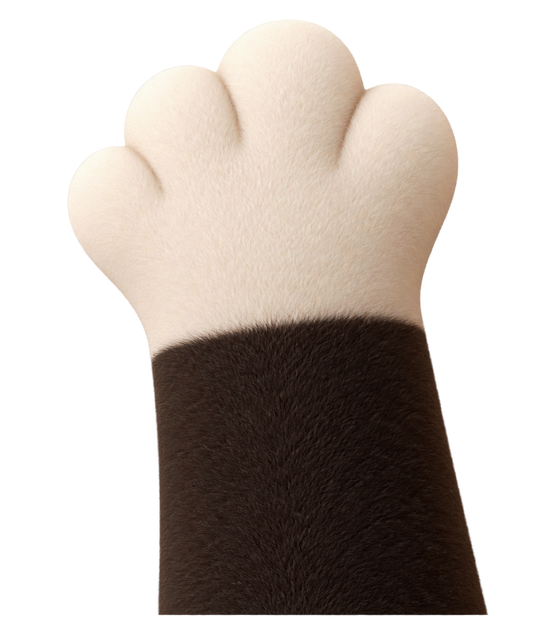
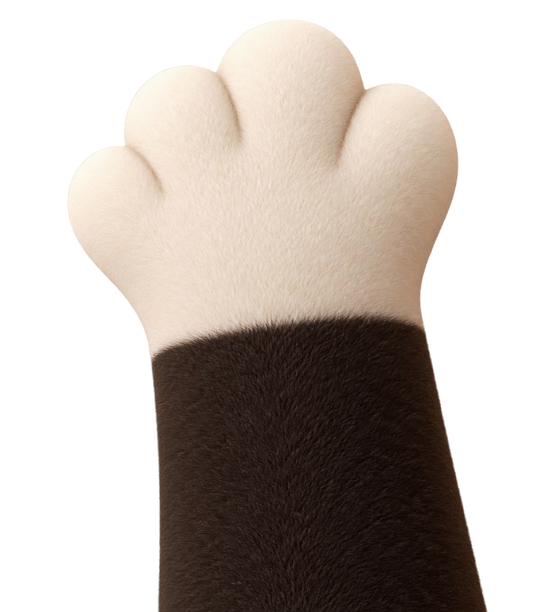
Console 1026: paw nudge on the way up, keychain while shut, arm that never ends on screen, shut-spin-carry exit on Approve

diff --git a/css/console.css b/css/console.css
@@ -10,7 +10,6 @@
 .pc__scrim { position: absolute; inset: 0; background: rgba(10, 8, 9, .62);
   backdrop-filter: blur(8px) saturate(.9); -webkit-backdrop-filter: blur(8px) saturate(.9);
   animation: pcFade .4s ease both; }
-.pc.is-leaving .pc__scrim { animation: pcFadeOut .5s ease .25s both; }
 @keyframes pcFade { from { opacity: 0; } }
 @keyframes pcFadeOut { to { opacity: 0; } }
 
@@ -18,28 +17,109 @@
 .pc__stage { position: absolute; left: 50%; top: 50%; width: 1744px; height: 907px;
   transform: translate(-50%, -50%) scale(var(--s, 1)); transform-origin: 50% 50%; perspective: 2400px; }
 
-/* ── arrival: the shut console comes up on a paw ──────────────── */
+/* ── arrival: the shut console comes up on a paw ──────────────
+   It comes up a little crooked; the paw settles, turns its wrist, and the
+   console swings square before the paw lets go. The keychain swings along. */
 .pc__closed { position: absolute; left: 50%; top: 50%; width: 972px; height: 930px;
   transform: translate(-50%, -50%); pointer-events: none; }
-.pc__lid { position: absolute; inset: 0; width: 100%; height: 100%;
-  filter: drop-shadow(0 40px 60px rgba(0, 0, 0, .55));
-  animation: lidUp 1.1s cubic-bezier(.2, .8, .25, 1) .1s both; }
-.pc__paw { position: absolute; left: 33%; top: 59%; width: 410px;
-  animation: pawUp 2.2s cubic-bezier(.3, .7, .2, 1) .1s both; }
-@keyframes lidUp {
-  0% { transform: translateY(120vh) rotate(-8deg); }
-  70% { transform: translateY(-2%) rotate(1deg); }
-  100% { transform: none; }
+.pc__body { position: absolute; inset: 0; transform-style: preserve-3d; transform-origin: 50% 90%;
+  animation: bodyUp 3.2s cubic-bezier(.3, .7, .2, 1) .1s both; }
+.pc__lid { position: absolute; inset: 0; width: 100%; height: 100%; backface-visibility: hidden;
+  filter: drop-shadow(0 40px 60px rgba(0, 0, 0, .55)); }
+@keyframes bodyUp {
+  0% { transform: translateY(120vh) rotate(-9deg); }
+  26% { transform: translateY(3%) rotate(-6deg); }
+  31% { transform: translateY(-2.5%) rotate(-5.5deg); }
+  38% { transform: translateY(0) rotate(-5.5deg); animation-timing-function: cubic-bezier(.5, 0, .3, 1.6); }
+  43% { transform: translateY(0) rotate(.8deg); }
+  47% { transform: translateY(0) rotate(-.3deg); }
+  52%, 100% { transform: translateY(0) rotate(0deg); }
 }
+/* the paw: its arm runs on below the picture, so its end never shows */
+.pc__paw { position: absolute; left: 33%; top: 59%; width: 410px; transform-origin: 50% 92%;
+  animation: pawUp 3.2s cubic-bezier(.3, .7, .2, 1) .1s both; }
+.pc__paw img { display: block; width: 100%; }
+.paw__arm { position: absolute; left: 0; right: 0; top: calc(100% - 2px); height: 220vh;
+  background: url(../assets/v2/paw-arm.png) center top / 100% auto repeat-y; }
 @keyframes pawUp {
-  0% { transform: translateY(120vh); }
-  48% { transform: translateY(0); }
-  56% { transform: translateY(2.5%) scale(1.02, .97); }
-  64% { transform: translateY(0); }
-  100% { transform: translateY(140vh); }
+  0% { transform: translateY(120vh) rotate(-4deg); }
+  26% { transform: translateY(3%) rotate(-2deg); }
+  31% { transform: translateY(-2.5%) rotate(0deg); }
+  34% { transform: translateY(1%) rotate(0deg) scale(1.04, .95); }
+  38% { transform: translateY(0) rotate(-6deg); animation-timing-function: cubic-bezier(.5, 0, .3, 1.5); }
+  43% { transform: translateY(-2%) rotate(9deg); }
+  47% { transform: translateY(0) rotate(2deg); }
+  51% { transform: translateY(1.5%) rotate(-5deg); }
+  55% { transform: translateY(0) rotate(4deg); }
+  70%, 100% { transform: translateY(150vh) rotate(0deg); }
 }
-.pc.is-open .pc__closed { animation: shut .45s ease both; }
+.pc.is-open:not(.is-leaving) .pc__closed { animation: shut .45s ease both; }
 @keyframes shut { to { opacity: 0; transform: translate(-50%, -50%) scale(.92); } }
+
+/* the underside, seen when it turns round on the way out */
+.pc__under { position: absolute; left: 2%; top: 9%; right: 3%; bottom: 4%; border-radius: 44px;
+  transform: rotateY(180deg) rotate(-6deg); backface-visibility: hidden;
+  display: flex; flex-direction: column; align-items: center; justify-content: center; gap: 48px;
+  background: linear-gradient(200deg, #55565c, #3c3d42 45%, #2a2b2f);
+  box-shadow: inset 0 2px 0 rgba(255, 255, 255, .25), inset 0 -3px 0 rgba(0, 0, 0, .3); }
+.under__vents { display: flex; gap: 18px; }
+.under__vents i { width: 34px; height: 150px; border-radius: 99px; background: #1a1b1e;
+  box-shadow: inset 0 4px 6px rgba(0, 0, 0, .7), 0 2px 0 rgba(255, 255, 255, .08); }
+.under__label { display: flex; flex-direction: column; align-items: center; gap: 10px; font-family: var(--mono);
+  text-transform: uppercase; letter-spacing: .14em; color: rgba(255, 255, 255, .3); font-size: 22px; }
+.under__label b { font-weight: 400; font-size: 40px; letter-spacing: .22em; }
+.under__label em { font-style: normal; }
+
+/* the lug on the shut console's corner, and the keychain hung from it */
+.pc__lug { position: absolute; left: 96.4%; top: 70%; width: 34px; height: 30px; border-radius: 0 14px 14px 0;
+  background: linear-gradient(180deg, #5a5b60, #3a3b40); box-shadow: inset -1px 1px 0 rgba(255, 255, 255, .14), 0 3px 6px rgba(0, 0, 0, .4);
+  transform: rotate(6deg); }
+.pc__eyelet { position: absolute; left: 55%; top: 50%; width: 14px; height: 14px; border-radius: 50%; transform: translate(-50%, -50%);
+  background: radial-gradient(circle, #0b0c0e 0 34%, transparent 36%), conic-gradient(from 200deg, #8e9297, #e9ecef, #9a9ea3, #5e6166, #c9cdd1, #8e9297);
+  box-shadow: 0 0 0 1px rgba(0, 0, 0, .55); }
+.kc { position: absolute; inset: 0; z-index: 4; pointer-events: none; transition: opacity .35s ease; }
+.kc.is-hidden { opacity: 0; }
+.kc__chain { position: absolute; inset: 0; width: 100%; height: 100%; overflow: visible; filter: drop-shadow(0 3px 2px rgba(0, 0, 0, .45)); }
+.kc__link { fill: none; stroke: #d5d9dd; stroke-width: 1.9; }
+.kc__edge { fill: #aeb3b8; stroke: #6e7378; stroke-width: .6; }
+.kc__ring { fill: none; stroke: #e4e7ea; stroke-width: 1.8; }
+.kc__charm { --W: clamp(64px, 5.2vw, 92px); position: absolute; left: 0; top: 0; width: var(--W); padding: 0; border: 0; background: none;
+  margin-left: calc(var(--W) * var(--hx, .5) * -1); margin-top: calc(var(--W) * var(--hy, .1) / var(--ar, 1) * -1);
+  transform-origin: calc(var(--hx, .5) * 100%) calc(var(--hy, .1) * 100%); pointer-events: none; }
+.kc__charm::before { content: ''; position: absolute; left: calc(var(--hx, .5) * 100%); top: calc(var(--hy, .1) * 100% - 3%);
+  width: 11px; height: 11px; margin: -5.5px 0 0 -5.5px; border-radius: 50%; border: 1.8px solid #e4e7ea; box-sizing: border-box; z-index: 1; }
+.kc__img { display: block; width: 100%; filter: drop-shadow(0 8px 10px rgba(0, 0, 0, .45)); }
+
+/* ── Approve: it shuts, turns twice on its upright axis, and the paw takes it away ── */
+.pc.is-open.is-leaving .pc__open, .pc.is-open.is-leaving .half--l { animation: leave .4s ease both; pointer-events: none; }
+@keyframes leave { to { opacity: 0; transform: scale(.94); } }
+.pc.is-leaving .pc__closed { animation: carry 3.5s linear both; }
+@keyframes carry {
+  0%, 10% { opacity: 0; transform: translate(-50%, -50%) scale(.95); }
+  14% { opacity: 1; transform: translate(-50%, -50%) scale(1); }
+  74% { transform: translate(-50%, -50%) scale(1); animation-timing-function: cubic-bezier(.5, 0, .8, .4); }
+  100% { opacity: 1; transform: translate(-50%, calc(-50% + 120vh)) scale(1); }
+}
+.pc.is-leaving .pc__body { animation: spinOut 3.5s linear both; }
+@keyframes spinOut {
+  0%, 16% { transform: rotateY(0deg) scale(1); }
+  20% { transform: translateY(-3%) rotateY(-14deg) scale(1.02); animation-timing-function: cubic-bezier(.45, 0, .25, 1); }
+  56% { transform: rotateY(720deg) scale(.82); animation-timing-function: ease-out; }
+  60% { transform: rotateY(728deg) scale(.82); }
+  64%, 100% { transform: rotateY(720deg) scale(.82); }
+}
+.pc.is-leaving .pc__paw { animation: pawTake 3.5s linear both; }
+@keyframes pawTake {
+  0%, 60% { opacity: 0; transform: translateY(80vh); }
+  61% { opacity: 1; transform: translateY(80vh); animation-timing-function: cubic-bezier(.2, .7, .3, 1); }
+  68% { transform: translateY(-2%); }
+  71% { transform: translateY(2%) scale(1.04, .95); }
+  74%, 100% { opacity: 1; transform: translateY(0); }
+}
+.pc.is-leaving .pc__scrim { animation: pcFadeOut .6s ease 2.8s both; }
+.pc.is-leaving .kc { animation: pcFadeOut .3s ease 3.1s both; }
+.pc.is-open.is-closing .pc__open { animation: leave .4s ease both; pointer-events: none; }
+.pc.is-closing .pc__scrim { animation: pcFadeOut .4s ease both; }
 
 /* ── the open console ─────────────────────────────────────────── */
 .pc__open { position: absolute; inset: 0; opacity: 0; pointer-events: none; transform-style: preserve-3d; }
@@ -47,8 +127,6 @@
 @keyframes openIn { from { opacity: 0; transform: scale(.94); } }
 .pc.is-open .half--l { animation: swing .7s cubic-bezier(.2, .8, .25, 1) .05s both; transform-origin: 100% 50%; }
 @keyframes swing { from { transform: rotateY(-70deg); opacity: .4; } }
-.pc.is-leaving .pc__open { animation: leave .5s cubic-bezier(.5, 0, .75, 0) both; }
-@keyframes leave { to { opacity: 0; transform: translateY(40px) scale(.94); } }
 
 .half { position: absolute; top: 0; width: 864px; height: 907px; border-radius: 40px; background: #1d1d1d;
   box-shadow: inset -8px -8px 8px rgba(0, 0, 0, .32), inset 4px 4px 8px rgba(255, 255, 255, .18),

diff --git a/js/console.js b/js/console.js
@@ -30,6 +30,76 @@ const Console = (() => {
   ];
 
   let host = null, plan = null, timers = [];
+
+  const Keychain = (() => {
+    const TAGS = [['tag-v2-1', .524, .115, .998], ['tag-v2-2', .482, .119, .973], ['tag-v2-3', .488, .118, .996],
+      ['tag-v2-4', .473, .113, .981], ['tag-v2-5', .489, .116, 1.002]];
+    let raf = 0;
+    const start = (root) => {
+      cancelAnimationFrame(raf);
+      const kc = root.querySelector('#kc'), svg = root.querySelector('#kcChain'), charm = root.querySelector('#kcCharm'), eye = root.querySelector('#pcEye');
+      if (!kc || !eye) return;
+      kc.classList.remove('is-hidden');
+      const [f, hx, hy, ar] = TAGS[Math.floor(Math.random() * TAGS.length)];
+      charm.querySelector('img').src = `${A}tags/${f}.png`;
+      charm.style.setProperty('--hx', hx); charm.style.setProperty('--hy', hy); charm.style.setProperty('--ar', ar);
+      const N = 7, W = [0, 1, 1, 1, 1, 1, 9];
+      const P = Array.from({ length: N }, () => ({ x: 0, y: 0, px: 0, py: 0 }));
+      let seg = 9, ready = false, last = performance.now();
+      const anchor = () => {
+        const r = eye.getBoundingClientRect(), k = kc.getBoundingClientRect();
+        return { x: r.left + r.width / 2 - k.left, y: r.top + r.height / 2 - k.top, w: r.width };
+      };
+      const step = (dt) => {
+        const a = anchor();
+        if (!a.w) return;
+        seg = Math.max(6, a.w * .62);
+        if (!ready) { P.forEach((q, i) => { q.x = q.px = a.x; q.y = q.py = a.y + i * seg; }); ready = true; }
+        const g = 2400 * dt * dt;
+        P.forEach((q, i) => {
+          if (i === 0) return;
+          const vx = (q.x - q.px) * .955, vy = (q.y - q.py) * .955;
+          q.px = q.x; q.py = q.y; q.x += vx; q.y += vy + g;
+        });
+        P[0].x = a.x; P[0].y = a.y;
+        for (let it = 0; it < 10; it++) {
+          for (let i = 0; i < N - 1; i++) {
+            const Aa = P[i], B = P[i + 1];
+            const dx = B.x - Aa.x, dy = B.y - Aa.y, d = Math.hypot(dx, dy) || .001, diff = (d - seg) / d;
+            const wa = i === 0 ? 0 : 1 / W[i], wb = 1 / W[i + 1], sum = wa + wb;
+            Aa.x += dx * diff * wa / sum; Aa.y += dy * diff * wa / sum;
+            B.x -= dx * diff * wb / sum; B.y -= dy * diff * wb / sum;
+          }
+        }
+      };
+      const draw = () => {
+        let h = `<circle cx="${P[0].x}" cy="${P[0].y}" r="${seg * .72}" class="kc__ring"/>`;
+        for (let i = 0; i < N - 1; i++) {
+          const Aa = P[i], B = P[i + 1], cx = (Aa.x + B.x) / 2, cy = (Aa.y + B.y) / 2;
+          const ang = Math.atan2(B.y - Aa.y, B.x - Aa.x) * 180 / Math.PI, L = seg * 1.18;
+          h += i % 2
+            ? `<rect x="${-L / 2}" y="-1.3" width="${L}" height="2.6" rx="1.3" transform="translate(${cx} ${cy}) rotate(${ang})" class="kc__edge"/>`
+            : `<ellipse rx="${L / 2}" ry="${seg * .36}" transform="translate(${cx} ${cy}) rotate(${ang})" class="kc__link"/>`;
+        }
+        svg.innerHTML = h;
+        const E = P[N - 1], D = P[N - 2];
+        charm.style.transform = `translate(${E.x}px, ${E.y}px) rotate(${Math.atan2(E.y - D.y, E.x - D.x) * 180 / Math.PI - 90}deg)`;
+      };
+      const tick = (now) => {
+        const dt = Math.min(.033, (now - last) / 1000); last = now;
+        step(dt / 2); step(dt / 2);
+        if (ready) draw();
+        raf = requestAnimationFrame(tick);
+      };
+      raf = requestAnimationFrame(tick);
+    };
+    const stop = (now) => {
+      const kc = host && host.querySelector('#kc');
+      if (kc) kc.classList.add('is-hidden');
+      if (now) cancelAnimationFrame(raf); else setTimeout(() => cancelAnimationFrame(raf), 400);
+    };
+    return { start, stop };
+  })();
   let state = null;
   const at = (ms, fn) => timers.push(setTimeout(fn, ms));
   const clear = () => { timers.forEach(clearTimeout); timers = []; };
@@ -52,11 +122,20 @@ const Console = (() => {
   const markup = (p) => `
     <div class="pc" id="pc">
       <span class="pc__scrim"></span>
+      <div class="kc" id="kc" aria-hidden="true">
+        <svg class="kc__chain" id="kcChain"></svg>
+        <button class="kc__charm" id="kcCharm" type="button" tabindex="-1"><img class="kc__img" alt=""></button>
+      </div>
       <div class="pc__stage" id="pcStage">
 
         <div class="pc__closed" aria-hidden="true">
-          <img class="pc__lid" src="${A}lid-closed.png" alt="">
-          <img class="pc__paw" src="${A}paw.png" alt="">
+          <div class="pc__body">
+            <img class="pc__lid" src="${A}lid-closed.png" alt="">
+            <div class="pc__under"><span class="under__vents">${'<i></i>'.repeat(7)}</span>
+              <span class="under__label"><b>wanaka</b><em>W1 · Plan console</em></span></div>
+            <span class="pc__lug"><span class="pc__eyelet" id="pcEye"></span></span>
+          </div>
+          <span class="pc__paw"><img src="${A}paw.png" alt=""><i class="paw__arm"></i></span>
         </div>
 
         <div class="pc__open">
@@ -182,10 +261,17 @@ const Console = (() => {
     if (name === 'assets') { paintCats(); paintGrid(); }
   };
 
-  const leave = (then) => {
+  const leave = (how, then) => {
     const pc = $('#pc');
-    pc.classList.add('is-leaving');
-    at(700, then);
+    if (how === 'approve') {
+      // shut, spin, and the paw takes it away — with the keychain back on while it is shut
+      pc.classList.add('is-leaving');
+      at(380, () => Keychain.start(host));
+      at(3500, then);
+    } else {
+      pc.classList.add('is-closing');
+      at(450, then);
+    }
   };
 
   /* ── wiring ────────────────────────────────────────────────────── */
@@ -200,7 +286,8 @@ const Console = (() => {
     state.unfit = () => removeEventListener('resize', fit);
 
     // the paw brings it up, then it opens and the cover starts generating
-    at(2000, () => { $('#pc').classList.add('is-open'); generate(); });
+    Keychain.start(host);
+    at(2700, () => { $('#pc').classList.add('is-open'); Keychain.stop(); generate(); });
 
     $('#pcRegen').onclick = () => { state.regens += 1; generate({ fail: state.regens === 2 }); };
     $('#pcRetry').onclick = () => generate();
@@ -208,9 +295,9 @@ const Console = (() => {
     $$('.tab').forEach((t) => { t.onclick = () => step(t.dataset.tab); });
     $('#pcNext').onclick = () => {
       if (state.step === 'plan') return step('assets');
-      leave(() => document.dispatchEvent(new CustomEvent('e-approved', { detail: { picks: state.picks } })));
+      leave('approve', () => document.dispatchEvent(new CustomEvent('e-approved', { detail: { picks: state.picks } })));
     };
-    $('#pcCancel').onclick = () => leave(() => unmount());
+    $('#pcCancel').onclick = () => leave('cancel', () => unmount());
 
     // selects
     $$('.sel').forEach((s) => {
@@ -258,6 +345,7 @@ const Console = (() => {
   };
   const unmount = () => {
     clear();
+    Keychain.stop(true);
     if (state && state.unfit) state.unfit();
     if (host) { host.innerHTML = ''; host.hidden = true; }
   };
